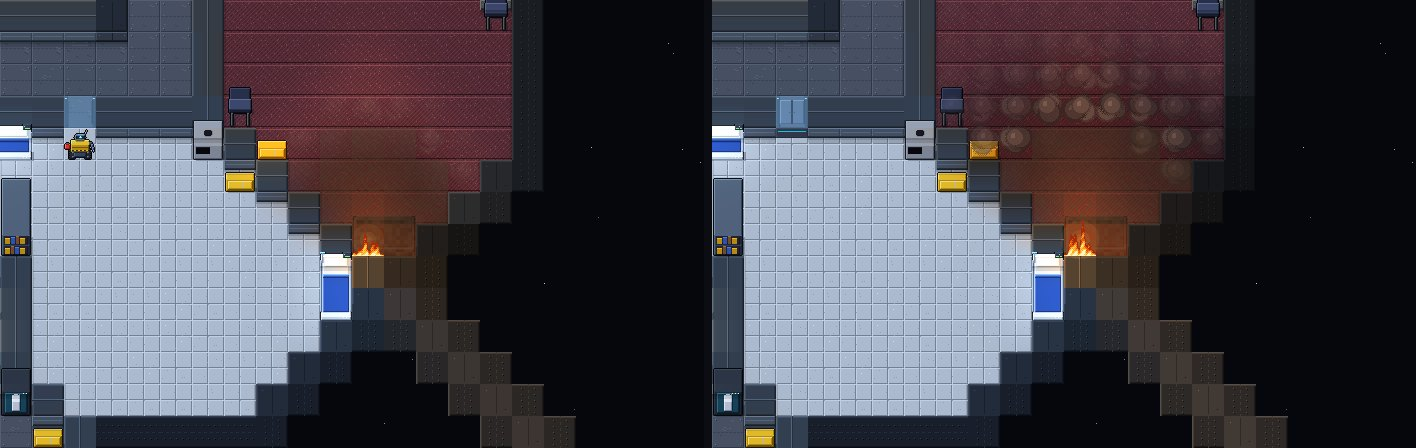
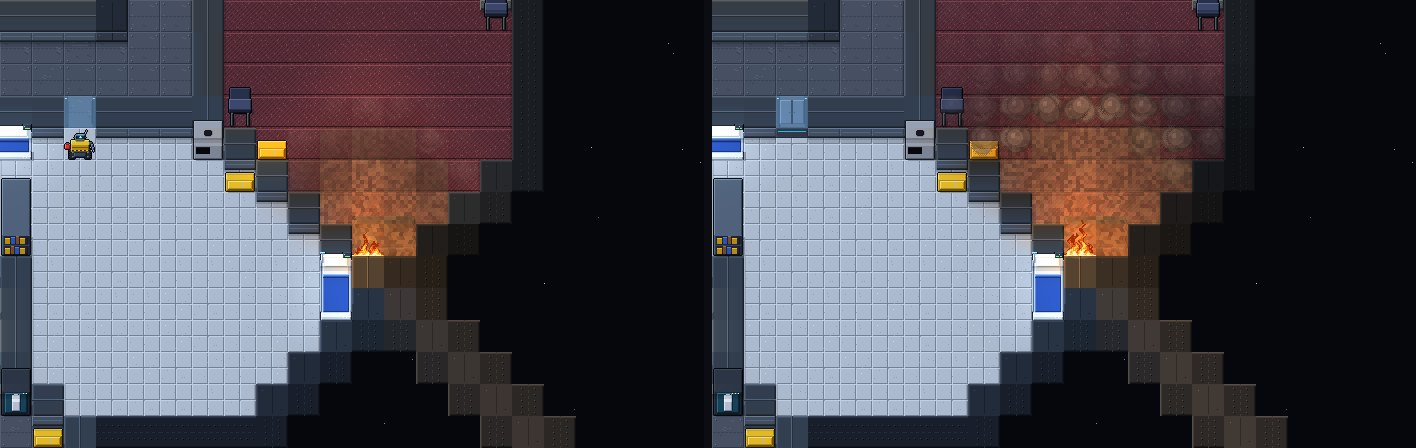
아지랑이 · 연기 속 빛 (그래픽 결정 11)
- ③ 기체가 340K를 넘는 칸은 도트 줄이 장마다 좌우로 흔들린다 (뜨거울수록 크게 · 불꽃까지 함께)
- 그을음이 빛을 흩뜨려 연기가 그 칸 빛의 빛깔로 밝아진다 (불 곁 주황 · 비상등 곁 붉게 — 적당히)
- 규칙 1 (아지랑이) · 시안 docs/screens/graphics/fx_smoke.jpg

Claude-Session: https://claude.ai/code/session_01U2W6DR7W4owqDy6NFo87pX

Changed region(s): [[0.6836, 0.2188, 0.839, 0.5938], [0.2175, 0.3438, 0.3418, 0.5938]]

diff --git a/engine/ShipView/PainterFx.cs b/engine/ShipView/PainterFx.cs
@@ -212,3 +212,67 @@ public sealed partial class Painter
             }
     }
 }
+
+public sealed partial class Painter
+{
+    public const double HazeK = 340;   // 이보다 뜨거운 기체 칸은 아지랑이 (공기가 일렁여 뒤가 흔들려 보인다)
+
+    /// <summary>아지랑이 (결정 11): ③ 칸의 기체 온도가 340K를 넘으면 그 칸의 도트 줄을 장마다 좌우로 1~2도트 흔든다 (뜨거울수록 크게).</summary>
+    private void HeatHaze(Img img, Field f, int x0, int y0, int w, int h, int frame)
+    {
+        var row = new byte[T * 4 + 8];
+        for (int y = y0; y < y0 + h; y++)
+            for (int x = x0; x < x0 + w; x++)
+            {
+                if (!L.In(x, y)) continue;
+                int c = L.Index(x, y);
+                if (!Mine(c) || L.Kind[c] is not (CellKind.Floor or CellKind.Door) || f.Pressure(c) < 5) continue;
+                double tk = f.Temp(c);
+                if (tk < HazeK) continue;
+                int amp = tk > 450 ? 2 : 1;
+                int px = (x - x0) * T, py = (y - y0) * T;
+                for (int yy = 0; yy < T; yy++)
+                {
+                    int sh = (int)Math.Round(amp * Math.Sin((py + yy) * 0.55 + frame * 1.3 + c));
+                    if (sh == 0) continue;
+                    int at = ((py + yy) * img.W + px) * 4;
+                    if (at < 0 || at + T * 4 > img.Px.Length) continue;
+                    Buffer.BlockCopy(img.Px, at, row, 0, T * 4);
+                    for (int xx = 0; xx < T; xx++)
+                    {
+                        int sx = Math.Clamp(xx - sh, 0, T - 1);
+                        Buffer.BlockCopy(row, sx * 4, img.Px, at + xx * 4, 4);
+                    }
+                }
+            }
+    }
+
+    /// <summary>연기 속 빛 (결정 11 · 빛 번짐 · 빛줄기): 그을음이 빛을 흩뜨린다 — 연기가 짙고 그 칸의 빛(빛 지도)이 셀수록 연기가 그 빛깔로 밝아진다 (불 곁은 주황 · 비상등 곁은 붉게). 곱한 뒤에 더한다.</summary>
+    private void SmokeScatter(Img img, Field f, int x0, int y0, int w, int h, int frame)
+    {
+        if (_lr.Length == 0) return;
+        for (int y = y0; y < y0 + h; y++)
+            for (int x = x0; x < x0 + w; x++)
+            {
+                if (!L.In(x, y)) continue;
+                int c = L.Index(x, y);
+                if (!Mine(c) || L.Kind[c] is not (CellKind.Floor or CellKind.Door)) continue;
+                double soot = f.Ppm(f.T.gSoot, c);
+                if (soot < 60) continue;
+                int mi = (y - _my0) * _mw + (x - _mx0);
+                if ((uint)mi >= (uint)_lr.Length) continue;
+                float lr = _lr[mi], lg = _lg[mi], lb = _lb[mi], lv = Math.Max(lr, Math.Max(lg, lb));
+                if (lv < 0.25f) continue;
+                float k = (float)Math.Min(0.2, soot / 4000) * Math.Min(1.3f, lv);
+                var col = new Rgba((byte)Math.Min(255, 255 * lr / lv), (byte)Math.Min(255, 255 * lg / lv), (byte)Math.Min(255, 255 * lb / lv));
+                int px = (x - x0) * T, py = (y - y0) * T, drift = frame / 2;
+                // 4×4 덩이마다 조금씩 (연기 결 따라) · 천천히 흐른다
+                for (int by = 0; by < T; by += 4)
+                    for (int bx = 0; bx < T; bx += 4)
+                    {
+                        float kk = k * (0.6f + 0.8f * DotHash.F(c * 17 + (bx + drift * 4) % T, by, 11));
+                        for (int yy = 0; yy < 4; yy++) for (int xx = 0; xx < 4; xx++) img.Add(px + bx + xx, py + by + yy, col, kk);
+                    }
+            }
+    }
+}

diff --git a/engine/Lab/RulesFx.cs b/engine/Lab/RulesFx.cs
@@ -56,6 +56,27 @@ public static partial class Program
                 $"{bl.Size:0}dB · {Painter.BlastKg(bl.Size):0.00}kg · {reach:0.0}칸 · 띠 도트 {ring} · 흔들림 조용 {calmShake} · 폭발 {blastShake} · 뒤 {afterShake}");
         }
 
+        // ── 아지랑이: 기체가 340K를 넘는 칸만 장마다 도트 줄이 흔들린다 · 식은 칸은 두 장이 같다 ──
+        {
+            var s = ShipWorld.Create("Didim", 3);
+            s.Run(3);
+            var L = s.Layout; var f = s.Get<Field>(); var p = new Painter(L) { Lighting = false };
+            var nb = new int[4];
+            bool Open(int c) { if (L.FurnitureAt[c] >= 0 || L.Kind[c] != CellKind.Floor) return false; L.Neighbors(c, nb); return nb.All(j => j >= 0 && L.FurnitureAt[j] < 0); }
+            var room = L.Rooms.Where(r => r.Cells.Count(Open) >= 2).OrderByDescending(r => r.Cells.Length).First();
+            var open = room.Cells.Where(Open).ToList();
+            int hot = open[0], cool = open[^1];
+            for (int i = 0; i < 40 && f.Temp(hot) < 420; i++) f.AddHeat(hot, 2e5);
+            int x0 = Math.Max(0, Math.Min(L.X(hot), L.X(cool)) - 1), y0 = Math.Max(0, Math.Min(L.Y(hot), L.Y(cool)) - 1);
+            int w = Math.Abs(L.X(hot) - L.X(cool)) + 3, h = Math.Abs(L.Y(hot) - L.Y(cool)) + 3;
+            Img Shot(int fr) { var im = p.Frame(s, x0, y0, w, h, fr); var copy = new Img(im.W, im.H); Array.Copy(im.Px, copy.Px, im.Px.Length); return copy; }
+            var a0 = Shot(0); var a1 = Shot(1);
+            int Diff(int c) { int n = 0; for (int yy = 0; yy < Painter.T; yy++) for (int xx = 0; xx < Painter.T; xx++) { int px = (L.X(c) - x0) * Painter.T + xx, py = (L.Y(c) - y0) * Painter.T + yy; if (a0.Get(px, py) != a1.Get(px, py)) n++; } return n; }
+            int dHot = Diff(hot), dCool = Diff(cool);
+            Check("아지랑이: 340K 넘는 칸은 장마다 도트가 흔들리고 · 식은 칸은 두 장이 같다",
+                f.Temp(hot) > Painter.HazeK && dHot > 20 && dCool == 0, $"뜨거운 칸 {f.Temp(hot):0}K · 바뀐 도트 {dHot} · 식은 칸 {f.Temp(cool):0}K · {dCool}");
+        }
+
         // ── 카메라 연출 (결정 13): 먼 곳의 폭발 → 카메라가 미끄러지지 않고 끊어 넘긴다 (컷) · 결정적 순간엔 가까이 ──
         {
             var s = ShipWorld.Create("Didim", 3);

diff --git a/engine/ShipView/Painter.cs b/engine/ShipView/Painter.cs
@@ -536,6 +536,7 @@ public sealed partial class Painter
             BuildLight(s, f, net, light, chem, st, x0, y0, w, h, frame);
             WallLight();
             ApplyLight(img, w, h);
+            SmokeScatter(img, f, x0, y0, w, h, frame);   // 연기가 빛을 받아 빛난다
             foreach (var e in _emissive) e(img);
             if (chem != null)
                 for (int y = y0; y < y0 + h + 1; y++)
@@ -546,6 +547,7 @@ public sealed partial class Painter
                         if (Mine(c) && chem.Burning[c] != 0) FireAt(img, chem, c, Px(x), Py(y), frame);
                     }
         }
+        HeatHaze(img, f, x0, y0, w, h, frame);          // 아지랑이 (불꽃까지 함께 일렁인다)
         FxEmissive(img, s, net, x0, y0, w, h, frame);   // 합선 불꽃 · 충격파 · 방사선 잡음
         if (Show != Overlay.None) DrawOverlay(img, f, net, x0, y0, w, h);
         return img;

diff --git a/docs/GRAPHICS.md b/docs/GRAPHICS.md
@@ -35,6 +35,7 @@
 | G1 화면 조명 (결정 3 · 4 · 7) | 그림에 도트마다 색 빛을 곱한다 (`ShipView/PainterLight.cs` — 세계는 읽기만): 방 종류마다 빛깔 (생활 방 따뜻하게 · 함교 푸르게 · 기관실 호박빛 · 재배실 생장등) · 비상등만 남은 방은 붉게 · 불빛은 구역 안에서 거리로 줄고 벽에 막히며 일렁인다 · 켜진 설비의 화면 · 불빛이 곁을 비춘다 (망가지면 붉게 깜빡) · 연기가 조명을 가린다 · 벽 밑 그림자 · 화면 · 불빛 · 벽 띠등 · 불꽃은 스스로 빛난다 (곱한 뒤에 그린다) · 불 둘레 빛 번짐 | 규칙 2 (비상 전지 · 화면 조명) · 시안 `lights_*.jpg` (낮 생활 방 · 함교 · 밤 침실 · 정전 · 불) · 관찰 장면 `--scene lights` |
 | G2 그리기 빠르게 (결정 15 · 60프레임) | 빠른 얹기 · 고정 소수 조명 · 설비 빛 그림 굽기 — 한 장 34ms → 6.4ms (아래) | 규칙 1 (그리기 시간) |
 | G3 사고 효과 (결정 11 · 12) | 모두 세계의 값 · 사실에서 (`ShipView/PainterFx.cs`): 새는 공기 줄기 (칸 바람 4m/s 넘는 칸만 · 빠를수록 길고 많다) · 천장 연기층 (③ 층이 갈린 칸은 윗층이 짙은 만큼 엷은 막 · 뭉게 연기는 아랫층 짙기로) · 합선 불꽃 (⑥ '합선' 사실 2틱 · 눌어붙은 차단기의 아크는 이어서 · 둘레를 푸르게 비춘다) · 폭발 (④ 큰 소리 사실 → TNT 무게 → 폭풍이 닿는 칸까지 퍼지는 밝은 띠 + 뒤의 어두운 띠 · 첫 반 틱 섬광이 둘레를 밝힌다) · 화면 흔들림 (관전 화면 — 폭발 · 충격 · 벽 터짐 2틱 · 클수록 세게) · 방사선 화면 잡음 (⑤ 칸 선량률 1mGy/시 넘으면 · 짙을수록 많다) | 규칙 4 (사고 효과) · 시안 `fx_*.jpg` · 관찰 장면 `--scene fx` |
+| G3 덧 — 아지랑이 · 연기 속 빛 (결정 11) | ③ 칸의 기체 온도가 340K를 넘으면 도트 줄이 장마다 좌우로 1~2도트 흔들린다 (불꽃까지 함께) · 그을음이 빛을 흩뜨려 연기가 그 칸 빛의 빛깔로 밝아진다 (불 곁 주황 · 비상등 곁 붉게 — 적당히: 많아야 0.2) | 규칙 1 (아지랑이) · 시안 `fx_smoke.jpg` |
 | G4 사람 (결정 6 · 9 · 10) | 다친 자국은 ⑦ 몸의 값 (피 · 화상 · 덮은 상처 · 타박 · 동상 · 열과 땀 · 감염 · 옮는 병 · 방사선에 빠진 머리) · 표정은 ⑧ 마음 · ⑦ 통증 (덤덤 · 웃음 · 겁 · 아픔 · 슬픔 — 앞 · 옆) · 기어가기는 ③ 낮은 머리 (엎드려 팔다리가 번갈아) · 자는 사람은 숨을 쉰다 · 걷기 여덟 장 (보폭 · 내려앉음 · 팔 흔들기 · 발 들기) · 생활 동작 (먹고 마시면 손 · 잔이 입으로 · 고치면 공구가 오르내리고 · 말하면 손짓 · 앉아 졸면 고개를 떨군다) · 나이(중년 · 노년 흰머리) · 수염 · 옷 무늬가 사람마다 · 사람 그림은 한 번 그려 다시 쓴다 | 규칙 2 (사람 그림) · 시안 `people_*.jpg` · 관찰 장면 `--scene people` |
 | G5 재질 흔적 (결정 5) | ④ 벽의 부식 → 녹 (윗면 얼룩 · 앞면으로 흘러내린 자국 — 많이 먹을수록 짙고 넓게) · ④ 피로 → 실금 (꺾이며 뻗는 어두운 선) · ② 쏟아진 액체 → 웅덩이 (냉매 암모니아 청록 · 배터리 전해액 호박 — 설비 몸속 저장은 빼고 빈 바닥만) · 그을음 · 물은 예전대로 · 고치고 닦아 값이 줄면 흔적도 사라진다 (`ShipView/PainterTraces.cs`) | 규칙 1 (재질 흔적) · 시안 `traces.jpg` |
 | G6 카메라 연출 (결정 13) | 느린 화면은 연출(⑬)의 분위기 빠르기 그대로 (결정적 순간 화면 1초에 0.5틱) · 결정적 순간 · 다시보기의 정점 컷엔 18칸까지 가까이 · 먼 곳으로 옮길 땐 미끄러지지 않고 끊어 넘긴다 (컷 — 화면이 0.18초 짧게 어두워졌다 밝아진다) · 위아래 검은 띠는 없다 | 규칙 2 (카메라 연출 · 정점 가까이) |
